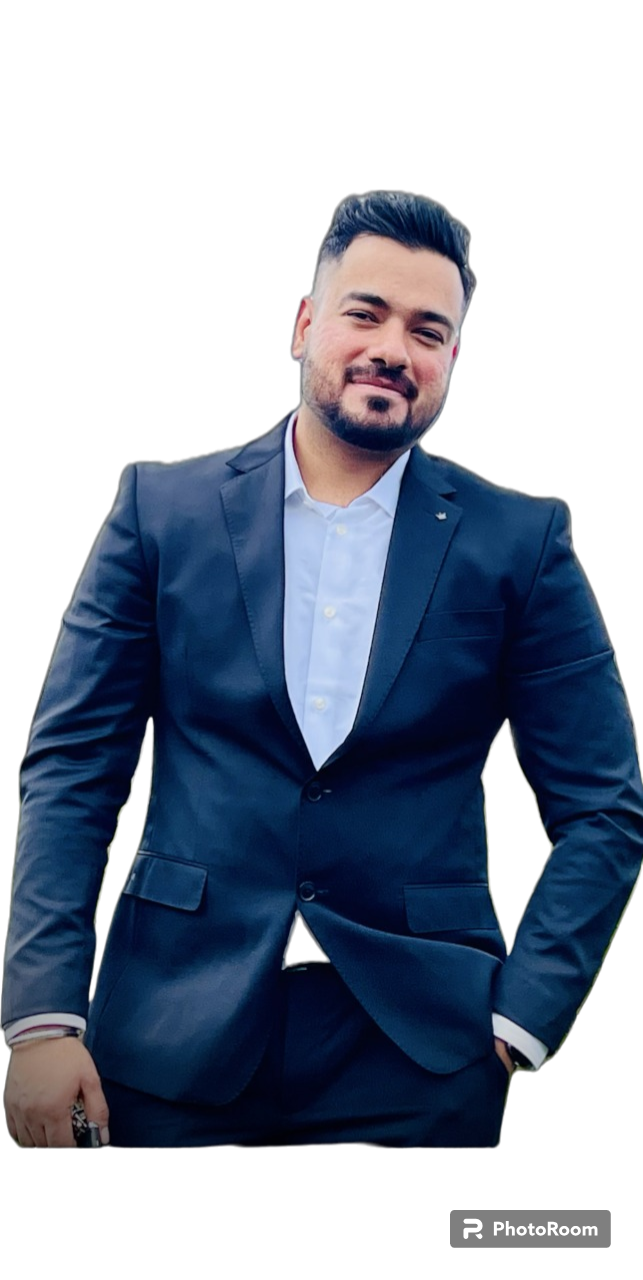
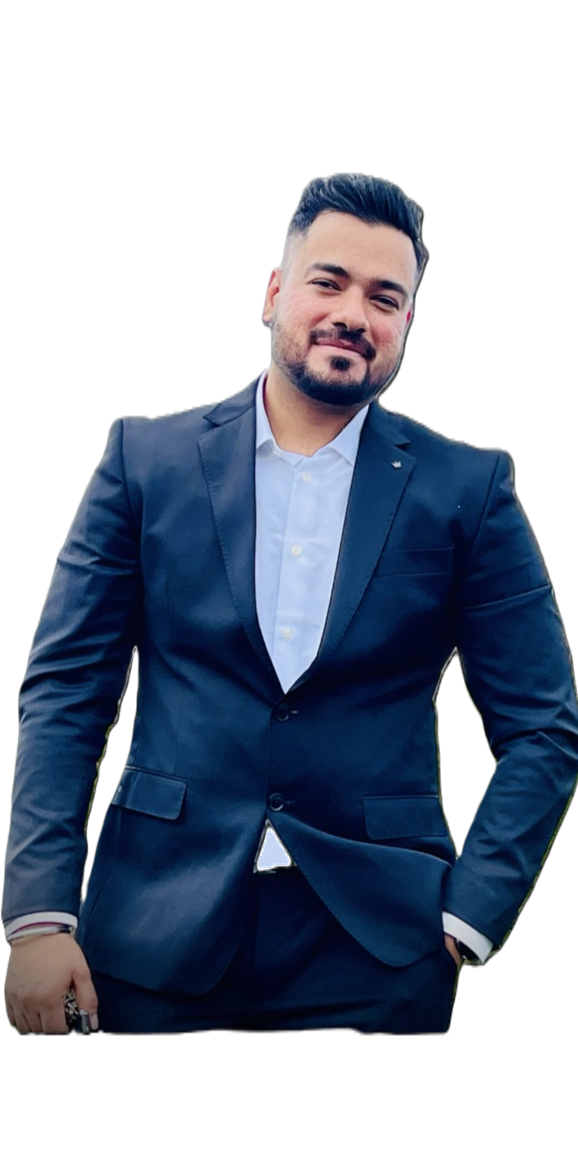
updated all sections

diff --git a/src/components/Works/works.css b/src/components/Works/works.css
@@ -1,54 +1,95 @@
 #works {
   margin: 0 auto;
   min-height: calc(100vh - 4rem);
-  width: 100dvw;
+  width: 100vw; /* Changed from 100dvw to 100vw */
   max-width: 60rem;
   display: flex;
   flex-direction: column;
   align-items: center;
-  justify-content: center;
+  justify-content: flex-start; /* Changed from center to flex-start to move content to the top */
   text-align: center;
-  padding: 0 1rem;
-}
-
-.worksTitle {
-  margin: 1rem 0;
-  font-size: 3rem;
+  padding: 1rem;
 }
 
 .worksDesc {
   font-weight: 300;
   font-size: 1rem;
   max-width: 45rem;
+  margin-bottom: 3rem; /* Increased space above the portfolio items */
 }
 
-.worksImgs {
+.workImgs {
   display: flex;
-  align-items: center;
-  justify-content: center;
   flex-wrap: wrap;
-  width: 100vw;
-  max-width: 65rem;
+  justify-content: space-between;
+  align-items: flex-start; /* Align items to the start of the container */
+  width: 100%; /* Ensure it spans the full width */
+  max-width: 60rem; /* Match the max-width of #works for alignment */
+  padding-left: 0.5rem; /* Adjust the padding to account for the margin of portfolioItem */
+  padding-right: 0.5rem;
 }
+
 .worksImg {
   object-fit: cover;
-  height: 20rem;
-  width: 15dvw;
-  margin: 0.5rem;
+  width: 100%;
+  height: 200px; /* Example fixed height */
   border-radius: 1rem;
+  margin-bottom: 0.5rem;
+}
+
+.portfolioItem {
+  flex: 1 0 calc(33.333% - 1rem);
+  display: flex;
+  flex-direction: column;
+  margin: 0.5rem;
+  box-sizing: border-box;
+  min-height: 250px; /* Example minimum height */
+}
+
+.portfolioDesc {
+  background-color: #f0f0f0;
+  border-radius: 0 0 1rem 1rem;
+  color: #000000;
+  font-size: 1rem;
+  padding: 0.4rem;
+  text-align: center;
+  margin-top: -5px;
+}
+
+.portfolioItem img {
+  width: 100%; /* Ensures image takes the full width of the container */
+
+  transition: transform 0.3s ease; /* Smooth transition for the transform property */
+}
+
+.portfolioItem img:hover {
+  transform: scale(1.05); /* Scales up the image to 105% of its original size */
+  cursor: pointer; /* Changes the cursor to indicate the item is interactive */
 }
 
 .workBtn {
-  margin: 3rem 0;
-  padding: 1rex;
+  cursor: pointer;
+  transition: transform 0.3s ease;
+  margin: 2rem 0;
+  padding: 1rem 2rem;
   border: none;
   border-radius: 2rem;
   background: white;
   font-size: 1rem;
 }
 
-@media screen and (max-width: 585px) {
-  .worksImg {
-    height: 45vw;
+.workBtn:hover {
+  transform: scale(1.05);
+}
+
+@media (max-width: 1024px) {
+  .portfolioItem {
+    width: calc(50% - 1rem);
+  }
+}
+
+@media (max-width: 768px) {
+  .portfolioItem {
+    width: calc(100% - 1rem);
   }
 }

diff --git a/src/components/Works/works.js b/src/components/Works/works.js
@@ -1,8 +1,46 @@
 import React from 'react';
 import './works.css';
 import Portfolio1 from '../../assets/Portfolio1.png';
+import Portfolio2 from '../../assets/Portfoilo2.png';
+import Portfolio3 from '../../assets/Portfolio3.png';
+import Portfolio4 from '../../assets/Portfolio4.png';
+import Portfolio5 from '../../assets/Portfolio5.png';
+import Portfolio6 from '../../assets/portfolio6.png';
 
 const Works = () => {
+  const portfolioItems = [
+    {
+      image: Portfolio1,
+      description: 'Forkify- Joy of cooking',
+      url: 'https://github.com/Dpnkrss/Forkify.git',
+    },
+    {
+      image: Portfolio2,
+      description: 'Mapty - navigator',
+      url: 'git push -u origin master',
+    },
+    {
+      image: Portfolio3,
+      description: 'Doctors Application - MERN',
+      url: 'https://github.com/Dpnkrss/perfect-heal-clinic.git',
+    },
+    {
+      image: Portfolio4,
+      description: 'Spotify-clone',
+      url: 'https://github.com/Dpnkrss/spotify-clone.git',
+    },
+    {
+      image: Portfolio5,
+      description: 'CrownClothing - Ecommerce',
+      url: 'https://github.com/Dpnkrss/dcrwn-clothing.git',
+    },
+    {
+      image: Portfolio6,
+      description: 'Banking Game',
+      url: 'https://github.com/yourusername/forkify',
+    },
+  ];
+
   return (
     <section id='works'>
       <h2 className='worksTitle'>My Portfolio</h2>
@@ -14,14 +52,25 @@ const Works = () => {
       </span>
 
       <div className='workImgs'>
-        <img src={Portfolio1} alt='' className='worksImg' />
-        <img src={Portfolio1} alt='' className='worksImg' />
-        <img src={Portfolio1} alt='' className='worksImg' />
-        <img src={Portfolio1} alt='' className='worksImg' />
-        <img src={Portfolio1} alt='' className='worksImg' />
-        <img src={Portfolio1} alt='' className='worksImg' />
+        {portfolioItems.map((item, index) => (
+          <div className='portfolioItem' key={index}>
+            <a href={item.url} target='_blank' rel='noopener noreferrer'>
+              <img
+                src={item.image}
+                alt={`Portfolio ${index + 1}`}
+                className='worksImg'
+              />
+            </a>
+            <div className='portfolioDesc'>{item.description}</div>
+          </div>
+        ))}
       </div>
-      <button className='workBtn'>See More</button>
+      <button
+        className='workBtn'
+        onClick={() => (window.location.href = 'https://github.com/Dpnkrss')}
+      >
+        See More
+      </button>
     </section>
   );
 };

diff --git a/src/components/Skills/skills.js b/src/components/Skills/skills.js
@@ -19,7 +19,10 @@ const Skills = () => {
           <img src={Appdesign} alt='UIDesign' className='skillBarImg' />
           <div className='skillBarText'>
             <h2>UI/UX design </h2>
-            <p>This is a demotext</p>
+            <p>
+              Crafting intuitive and visually compelling user experiences
+              tailored for engaging digital landscapes
+            </p>
           </div>
         </div>
 
@@ -27,7 +30,10 @@ const Skills = () => {
           <img src={WebDesign} alt='WebDesign' className='skillBarImg' />
           <div className='skillBarText'>
             <h2>Website design & Scripting </h2>
-            <p>This is a demotext</p>
+            <p>
+              Building responsive and dynamic websites with a focus on seamless
+              functionality and user-centric scriptingt
+            </p>
           </div>
         </div>
 
@@ -35,12 +41,16 @@ const Skills = () => {
           <img src={UIDesign} alt='Appdesign' className='skillBarImg' />
           <div className='skillBarText'>
             <h2>App Design</h2>
-            <p>You can write text related to mobile apps</p>
+            <p>
+              Designing sleek, user-friendly mobile responsive interfaces that
+              streamline navigation and enhance user engagement
+            </p>
           </div>
         </div>
       </div>
 
       <section id='skillList'>
+        <div className='heading'>What I know</div>
         <div className='frontEnd'>
           <h2> Frontend </h2> <br />
           <div class='innerbox'>
@@ -86,7 +96,6 @@ const Skills = () => {
             <span class='rounded-md '>Kubernetes</span>
             <br /> <br />
             <span class='rounded-md '>Jenkins</span>
-            <span class='rounded-md'>Docker</span>
             <span class='rounded-md'>AWS</span> <br />
             <br />
             <span class=' '> </span> <br />

diff --git a/src/components/Intro/intro.js b/src/components/Intro/intro.js
@@ -1,6 +1,6 @@
 import React from 'react';
 import './intro.css';
-import bg from '../../assets/image.jpg';
+import bg from '../../assets/image-PhotoRoom.png';
 import btnImg from '../../assets/hireme.svg';
 import { Link } from 'react-scroll';
 
@@ -20,7 +20,16 @@ const Intro = () => {
         <Link>
           <button className='btn'>
             <img src={btnImg} alt='hireme' className='btnImg' />
-            <span className='Hire'>Hire Me</span>
+            <span
+              className='Hire'
+              onClick={() =>
+                document
+                  .getElementById('contact')
+                  .scrollIntoView({ behavior: 'smooth' })
+              }
+            >
+              Hire Me
+            </span>
           </button>
         </Link>
       </div>

diff --git a/src/components/Contact/contact.js b/src/components/Contact/contact.js
@@ -44,18 +44,21 @@ const Contact = () => {
             className='name'
             placeholder='Your Name'
             name='from_name'
+            required
           />
           <input
             type='email'
             className='email'
             placeholder='Your Email'
             name='to_name'
+            required
           />
           <textarea
             className='msg'
             name='message'
             rows='5'
-            placeholder='Your Message '
+            placeholder='Your Message'
+            required
           ></textarea>
           <button type='submit' value='send' className='submitBtn'>
             Submit

diff --git a/src/components/navBar/navbar.css b/src/components/navBar/navbar.css
@@ -40,6 +40,7 @@
 }
 
 .desktopMenuBtn {
+  cursor: pointer;
   background: white;
   color: black;
   border: none;
@@ -51,6 +52,7 @@
 }
 
 .desktopMenuImg {
+  cursor: pointer;
   object-fit: cover;
   height: 1rem;
   width: 1rem;

diff --git a/src/components/Skills/skilss.css b/src/components/Skills/skilss.css
@@ -130,6 +130,13 @@
   display: inline-block;
 }
 
+.heading {
+  font-size: 2rem;
+  font-weight: 400;
+  padding-top: 3rem;
+  margin-bottom: 1.5rem;
+}
+
 .frontEnd {
   overflow: hidden;
   margin: 10px;

diff --git a/src/components/Intro/intro.css b/src/components/Intro/intro.css
@@ -43,6 +43,7 @@
 }
 
 .btn {
+  cursor: pointer;
   background: white;
   margin: 1rem 0;
   padding: 0.5rem 1.5rem;
